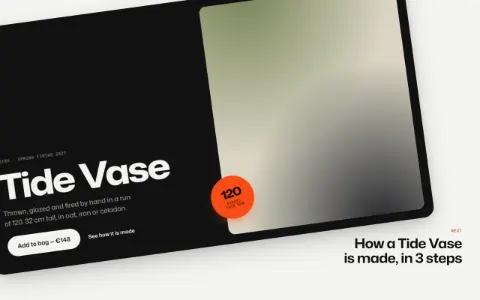
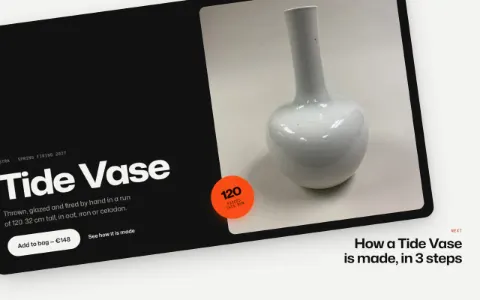
Checkpoint: scroll-effects batch in progress
Claude-Session: https://claude.ai/code/session_01FSExaLDapN7Ue3cgEwCTvE

Changed region(s): [[0.4375, 0.0, 0.9062, 0.78], [0.7188, 0.0, 0.8438, 0.15], [0.4062, 0.03, 0.4375, 0.09]]

diff --git a/components/title-tunnel/demo.css b/components/title-tunnel/demo.css
@@ -1,4 +1,54 @@
-/* Title tunnel. Tokens and primitives come from src/demo-kit/base.css; use var(--…) for every colour. */
-.tt {
-  min-height: 100svh;
+.tt { --pad-x: max(var(--gutter), calc((100% - 1320px) / 2)); overflow-x: clip; }
+.tt a { text-decoration: none; }
+.tt__bar nav a[aria-current] { color: var(--ink); }
+
+/* The lead: the page's heading. In the tunnel it sits above the doorway, which grows over it. */
+.tt__lead { display: grid; gap: clamp(10px, 1.8svh, 16px); }
+.tt__h1 { max-width: 18ch; font-size: clamp(1.9rem, 1rem + 2.4vw, 3.2rem); font-weight: 720; font-stretch: var(--wide); line-height: 1; letter-spacing: -0.03em; text-wrap: balance; }
+.tt__cue { display: inline-flex; align-items: center; gap: 10px; margin-top: 6px; }
+.tt__cue::before { content: ''; width: 1px; height: 32px; background: linear-gradient(var(--ink), transparent); }
+
+/* Cards, in both modes. */
+.tt__link { display: grid; gap: 8px; }
+.tt__media { --ratio: 4 / 3; border-radius: var(--radius-md); }
+.tt__name { font-size: var(--text-lg); font-weight: 650; letter-spacing: -0.01em; line-height: 1.2; }
+.tt__meta { color: var(--muted); }
+
+/* Flat: reduced motion and static (and before script). The heading and a plain grid of links. */
+.tt__tunnel[data-mode='flat'] { padding: clamp(40px, 8svh, 88px) var(--pad-x) clamp(56px, 10svh, 104px); }
+[data-mode='flat'] .tt__lead { margin-bottom: clamp(48px, 9svh, 96px); }
+[data-mode='flat'] .tt__cue { display: none; }
+[data-mode='flat'] .tt__title { margin-bottom: clamp(28px, 5svh, 48px); font-size: clamp(3rem, 1rem + 8vw, 9rem); font-weight: 760; font-stretch: var(--wide); line-height: 0.9; letter-spacing: -0.045em; }
+[data-mode='flat'] .tt__scene { display: grid; grid-template-columns: repeat(auto-fill, minmax(min(100%, 15rem), 1fr)); gap: 32px var(--gutter); margin: 0; }
+
+/* Deep: the section's height is the scroll the tunnel consumes; the stage is sticky, nothing is pinned. */
+.tt__tunnel[data-mode='deep'] { height: 500svh; }
+[data-mode='deep'] .tt__stage { position: sticky; top: 0; height: 100svh; display: grid; place-items: center; overflow: clip; container-type: size; }
+[data-mode='deep'] .tt__lead { position: absolute; top: clamp(16px, 4svh, 40px); left: var(--pad-x); right: var(--pad-x); }
+/* The doorway: overflow: clip (not hidden), so focusing a link cannot scroll the mask's content. */
+[data-mode='deep'] .tt__mask { position: relative; display: grid; place-items: center; width: min(56cqw, 52rem); height: clamp(6rem, 20cqh, 12rem); border-radius: 999px; overflow: clip; background: var(--ink); color: var(--bg); }
+[data-mode='deep'] .tt__title { position: relative; z-index: 1; font-size: clamp(3rem, 14cqh, 9.5rem); font-weight: 760; font-stretch: var(--wide); line-height: 1; letter-spacing: -0.045em; pointer-events: none; }
+/* Viewport-sized, centred on the doorway; demo.js counter-scales it so the scene stays at 1:1 while the mask grows. */
+[data-mode='deep'] .tt__inner { position: absolute; left: 50%; top: 50%; width: 100cqw; height: 100cqh; translate: -50% -50%; perspective: 900px; }
+[data-mode='deep'] .tt__scene { position: absolute; inset: 0; display: block; margin: 0; transform-style: preserve-3d; }
+[data-mode='deep'] .tt__scene li {
+  position: absolute;
+  left: 50%;
+  top: 50%;
+  width: clamp(9rem, 22cqw, 21rem);
+  transform: translate(-50%, -50%) translate3d(calc(var(--x) * 24cqw), calc(var(--y) * 30cqh), calc(var(--i) * var(--gap, 700px) * -1));
+}
+[data-mode='deep'] .tt__name { color: var(--bg); }
+[data-mode='deep'] .tt__meta { color: color-mix(in oklab, var(--bg) 62%, var(--ink)); }
+[data-mode='deep'] .tt__link:focus-visible { outline-color: var(--bg); }
+
+.tt__outro { display: grid; justify-items: start; gap: 26px; padding-block: clamp(72px, 14svh, 140px); border-top: 1px solid var(--line); }
+.tt__outro .ac-h2 { max-width: 26ch; }
+
+@media (max-width: 640px) {
+  .tt__bar nav { display: none; }
+  [data-mode='deep'] .tt__mask { width: 80cqw; height: 14cqh; }
+  [data-mode='deep'] .tt__title { font-size: clamp(2.5rem, 9cqh, 5rem); }
+  [data-mode='deep'] .tt__scene li { width: 46cqw; transform: translate(-50%, -50%) translate3d(calc(var(--x) * 20cqw), calc(var(--y) * 30cqh), calc(var(--i) * var(--gap, 700px) * -1)); }
+  .tt__name { font-size: var(--text-md); }
 }

diff --git a/components/title-tunnel/demo.js b/components/title-tunnel/demo.js
@@ -34,14 +34,13 @@ export default function mount(root, options, ctx) {
       <a class="ac-brand" href="#top">${studio.name}</a>
       <nav aria-label="Studio">${studio.nav.map((n, i) => html`<a href="#top" ${i === 0 ? raw('aria-current="page"') : ''}>${n}</a>`)}</nav>
     </header>
-    <section class="tt__intro ac-wrap" aria-labelledby="tt-title">
-      <p class="ac-label">${studio.full} · ${studio.city}</p>
-      <h1 class="ac-h1" id="tt-title">${studio.tagline}</h1>
-      <p class="tt__cue ac-label" aria-hidden="true">Scroll into the work</p>
-    </section>
-
     <section class="tt__tunnel" data-tunnel data-mode="flat" aria-labelledby="tt-work">
       <div class="tt__stage" data-stage>
+        <div class="tt__lead" data-lead>
+          <p class="ac-label">${studio.full} · ${studio.city}</p>
+          <h1 class="tt__h1" id="tt-title">${studio.tagline}</h1>
+          <p class="tt__cue ac-label" aria-hidden="true">Scroll into the work</p>
+        </div>
         <div class="tt__mask" data-mask>
           <h2 class="tt__title" id="tt-work" data-title>Work</h2>
           <div class="tt__inner" data-inner>
@@ -72,15 +71,17 @@ export default function mount(root, options, ctx) {
   const inner = root.querySelector('[data-inner]');
   const scene = root.querySelector('[data-scene]');
   const title = root.querySelector('[data-title]');
+  const lead = root.querySelector('[data-lead]');
   const items = [...scene.children];
 
-  const lenis = useLenis(ctx);
   if (ctx.motion !== 'full') {
     return { update(next, changed) { cfg = { ...next }; return changed.includes('count') ? false : undefined; } };
   }
 
-  const { gsap, ScrollTrigger, context } = useGsap(ctx, root);
+  // Deep mode first: the section grows to 500 svh, and Lenis should measure the page at its real height.
   section.dataset.mode = 'deep';
+  const lenis = useLenis(ctx);
+  const { gsap, ScrollTrigger, context } = useGsap(ctx, root);
   // Smallest scale at which the capsule's straight part covers the stage: (W − H)·s ≥ stage width, H·s ≥ stage
   // height. offsetWidth/Height ignore transforms, so this is safe at any point of the scrub.
   const coverScale = () => 1.02 * Math.max(stage.clientWidth / Math.max(1, mask.offsetWidth - mask.offsetHeight), stage.clientHeight / mask.offsetHeight);
@@ -88,7 +89,7 @@ export default function mount(root, options, ctx) {
   let tl = null;
   const build = () => {
     if (tl) { tl.scrollTrigger?.kill(); tl.kill(); }
-    gsap.set([mask, inner, scene, title], { clearProps: 'transform,opacity' });
+    gsap.set([mask, inner, scene, title, lead], { clearProps: 'transform,opacity' });
     scene.style.setProperty('--gap', `${cfg.gap}px`);
     const depth = count * cfg.gap; // the flight ends with the last project at z 0
     let cover = coverScale();
@@ -111,6 +112,7 @@ export default function mount(root, options, ctx) {
         },
       });
       tl.to(zoom, { k: 1, duration: ZOOM, onUpdate: applyZoom }, 0)
+        .to(lead, { opacity: 0, duration: 0.12 }, 0.02)
         .to(title, { opacity: 0, duration: 0.5 }, 0.35)
         .fromTo(scene, { z: 0 }, { z: depth, duration: TRAVEL }, TRAVEL_AT);
       tl.depth = depth;

diff --git a/components/css-scroll-timeline/demo.js b/components/css-scroll-timeline/demo.js
@@ -5,7 +5,7 @@
 // scroll listener for the bar and an IntersectionObserver that clears marks on blocks still below the fold.
 import './demo.css';
 import '../../src/demo-kit/serif.css';
-import { on, html, raw, clamp, photos, imageHTML, content, observeIntersection } from '../../src/demo-kit/index.js';
+import { on, html, raw, clamp, photo, photos, imageHTML, content, observeIntersection } from '../../src/demo-kit/index.js';
 
 const MORE = {
   kilns: 'Each boiling house has one pan, three metres across, set over a brick firebox. Brine from the shallow wells is ladled in at dawn and boiled down by dusk.',
@@ -25,12 +25,15 @@ function ledgerPath() {
   return `M${pts.join(' L')}`;
 }
 
+// A named picture when the shared set has it, else a pick by tag (the set may change; a demo never depends on one file).
+const pick = (id, tags, seed) => { const p = photo(id); return p.drawn ? photos({ tags, count: 1, seed })[0] : p; };
+
 export default function mount(root, options, ctx) {
   const { magazine, people } = content;
   const article = magazine.articles.find((a) => a.slug === 'salt-and-time');
   const p = magazine.longRead;
-  const [heroShot] = photos({ tags: ['landscape'], count: 1, seed: 'cst-hero' });
-  const [ledgerShot] = photos({ tags: ['water'], count: 1, seed: 'cst-ledger' });
+  const heroShot = pick('land-dunes', ['landscape'], 'cst-hero');
+  const ledgerShot = pick('land-overcast-sea', ['water'], 'cst-ledger');
   let cfg = { ...options };
 
   const supported = { scroll: CSS.supports('animation-timeline: scroll()'), view: CSS.supports('animation-timeline: view()') };
@@ -55,7 +58,7 @@ export default function mount(root, options, ctx) {
           <p class="cst__byline">Words by <strong>${article.author}</strong> · Photographs by <strong>${people[3].name}</strong></p>
         </div>
         <figure class="cst__hero-fig">
-          <span class="ac-media">${raw(imageHTML(heroShot, { sizes: '(max-width: 760px) 92vw, 44vw', eager: true, alt: 'The salt flats at low water, late in the afternoon' }))}</span>
+          <span class="ac-media">${raw(imageHTML(heroShot, { sizes: '(max-width: 760px) 92vw, 44vw', eager: true, alt: 'Pale dunes above the boiling houses, late in the afternoon' }))}</span>
           <figcaption class="ac-small">Læsø in August. The boiling houses sit on the dune line, upwind of the village.</figcaption>
         </figure>
       </section>
@@ -75,7 +78,7 @@ export default function mount(root, options, ctx) {
           <h2 class="cst__h2" id="cst-c3">The ledger</h2>
           <figure class="cst__fig">
             <div class="cst__frame" data-frame>
-              <span class="cst__photo ac-media">${raw(imageHTML(ledgerShot, { sizes: '(max-width: 760px) 92vw, 72rem', alt: 'Brine pans on the shore below the archive' }))}</span>
+              <span class="cst__photo ac-media">${raw(imageHTML(ledgerShot, { sizes: '(max-width: 760px) 92vw, 72rem', alt: 'Surf around a low rocky islet off the salt coast' }))}</span>
               <div class="cst__chart" aria-hidden="true">
                 <span class="ac-label">Salt boiled each summer, in tonnes</span>
                 <div class="cst__plot">

diff --git a/components/sticky-stages/demo.js b/components/sticky-stages/demo.js
@@ -3,16 +3,19 @@
 // (x −10 %, −15°) while the seal on it turns harder and starts a beat later; across the second rail each step card
 // rises, holds and settles in turn. Reduced motion: the rails collapse to their content and nothing moves.
 import './demo.css';
-import { on, html, raw, clamp, photos, imageHTML, content, formatPrice } from '../../src/demo-kit/index.js';
+import { on, html, raw, clamp, photo, photos, imageHTML, content, formatPrice } from '../../src/demo-kit/index.js';
 import { useGsap } from '../../src/demo-kit/gsap.js';
 import { useLenis } from '../../src/demo-kit/lenis.js';
 
 const STEPS = [
-  { k: 'Thrown', t: 'On the wheel', b: 'Each vase starts as 2.2 kg of stoneware, thrown in one pull and left to stiffen overnight.', tags: ['ceramic'] },
-  { k: 'Glazed', t: 'Dipped twice', b: 'An oat glaze mixed in the workshop; the foot is wiped back so the bare clay shows.', tags: ['texture'] },
-  { k: 'Fired', t: '1,280 °C', b: 'Fourteen hours in a reduction kiln. The flame decides the last tenth of the colour.', tags: ['warm'] },
-  { k: 'Packed', t: 'Paper, not foam', b: 'Wrapped in moulded pulp and sent within three days, with the potter’s initials on the base.', tags: ['interior'] },
+  { k: 'Thrown', t: 'On the wheel', b: 'Each vase starts as 2.2 kg of stoneware, thrown in one pull and left to stiffen overnight.', id: 'obj-jian-tea-bowl', tags: ['ceramic'] },
+  { k: 'Glazed', t: 'Dipped twice', b: 'An oat glaze mixed in the workshop; the foot is wiped back so the bare clay shows.', id: 'obj-grueby-vase', tags: ['ceramic', 'cool'] },
+  { k: 'Fired', t: '1,280 °C', b: 'Fourteen hours in a reduction kiln. The flame decides the last tenth of the colour.', id: 'obj-roman-oil-lamp', tags: ['ceramic', 'warm'] },
+  { k: 'Packed', t: 'Paper, not foam', b: 'Wrapped in moulded pulp and sent within three days, with the potter’s initials on the base.', id: 'tex-paper-sheets', tags: ['texture'] },
 ];
+
+// A named picture when the shared set has it, else a pick by tag (the set may change; a demo never depends on one file).
+const pick = (id, tags, seed) => { const p = photo(id); return p.drawn ? photos({ tags, count: 1, seed })[0] : p; };
 
 export default function mount(root, options, ctx) {
   const { shop } = content;
@@ -20,8 +23,8 @@ export default function mount(root, options, ctx) {
   let cfg = { ...options };
   const count = clamp(Math.round(cfg.stages), 2, STEPS.length);
   const steps = STEPS.slice(0, count);
-  const [hero] = photos({ tags: ['ceramic'], count: 1, seed: 'ss-hero' });
-  const shots = steps.map((s, i) => photos({ tags: s.tags, count: 1, seed: `ss-step-${i}` })[0]);
+  const hero = pick('obj-celadon-vase', ['ceramic'], 'ss-hero');
+  const shots = steps.map((s, i) => pick(s.id, s.tags, `ss-step-${i}`));
 
   root.className = 'ss';
   root.innerHTML = html`

diff --git a/components/docked-media/demo.js b/components/docked-media/demo.js
@@ -4,7 +4,7 @@
 // 85 % to top top grows it to scale 1; at that end the fixed box and the section box coincide and onLeave hands the
 // reel back to the flow. Transform only; the radius is counter-scaled. Phones and reduced motion: no dock.
 import './demo.css';
-import { on, html, raw, photos, videos, imageHTML, whileVisible, content } from '../../src/demo-kit/index.js';
+import { on, html, raw, photo, photos, videos, imageHTML, whileVisible, content } from '../../src/demo-kit/index.js';
 import { useGsap } from '../../src/demo-kit/gsap.js';
 import { useLenis } from '../../src/demo-kit/lenis.js';
 
@@ -15,8 +15,10 @@ export default function mount(root, options, ctx) {
   const { studio } = content;
   const work = studio.projects.filter((p) => ['fjordhus', 'kiln-house', 'saltworks'].includes(p.slug));
   const shots = photos({ tags: ['architecture'], count: 3, seed: 'dm-work' });
-  const [still] = photos({ tags: ['landscape'], count: 1, seed: 'dm-film' });
-  const clip = videos.find((v) => v.tags?.some((t) => ['architecture', 'landscape', 'nature', 'water'].includes(t))) || videos[0];
+  // The film: a clip from the shared set when one shows a building or water, else a still that drifts slowly.
+  const named = photo('land-lake-reflection');
+  const still = named.drawn ? photos({ tags: ['landscape'], count: 1, seed: 'dm-film' })[0] : named;
+  const clip = videos.find((v) => v.tags?.some((t) => ['architecture', 'interior', 'water'].includes(t)));
   let cfg = { ...options };
 
   root.className = 'dm';

diff --git a/components/docked-media/demo.css b/components/docked-media/demo.css
@@ -69,7 +69,7 @@
 .dm__media img { animation: dm-drift 26s var(--ease-in-out) infinite alternate paused; transform-origin: 40% 60%; }
 .dm--playing .dm__media img { animation-play-state: running; }
 @keyframes dm-drift { from { transform: scale(1.04); } to { transform: scale(1.14) translate(-2%, -1.5%); } }
-.dm__reel::after { content: ''; position: absolute; inset: -2px; background: linear-gradient(to top, color-mix(in oklab, var(--night) 80%, transparent), color-mix(in oklab, var(--night) 20%, transparent) 45%, transparent 70%); pointer-events: none; }
+.dm__reel::after { content: ''; position: absolute; inset: -2px; background: linear-gradient(to top, color-mix(in oklab, var(--night) 88%, transparent), color-mix(in oklab, var(--night) 55%, transparent) 32%, color-mix(in oklab, var(--night) 12%, transparent) 58%, transparent 76%); pointer-events: none; }
 
 .dm__over { position: absolute; inset: auto 0 0; z-index: 1; display: grid; gap: clamp(10px, 2svh, 18px); padding: clamp(20px, 4vw, 56px); }
 .dm__over .ac-label { color: color-mix(in oklab, var(--dm-on) 72%, transparent); }

diff --git a/components/clip-door/demo.css b/components/clip-door/demo.css
@@ -21,7 +21,7 @@
   content: '';
   position: absolute;
   inset: 0;
-  background: linear-gradient(to top, color-mix(in oklab, var(--night) 84%, transparent) 0%, color-mix(in oklab, var(--night) 34%, transparent) 42%, transparent 70%);
+  background: linear-gradient(to top, color-mix(in oklab, var(--night) 90%, transparent) 0%, color-mix(in oklab, var(--night) 62%, transparent) 30%, color-mix(in oklab, var(--night) 18%, transparent) 56%, transparent 76%);
 }
 .cd__room-copy { position: absolute; inset: auto 0 0; z-index: 1; display: grid; gap: clamp(12px, 2svh, 20px); padding: 0 var(--pad-x) clamp(24px, 6svh, 56px); }
 .cd__room-copy .ac-label { color: color-mix(in oklab, var(--cd-on) 74%, transparent); }

diff --git a/components/title-tunnel/meta.js b/components/title-tunnel/meta.js
@@ -8,7 +8,7 @@ export default {
   tags: ['scroll', 'css-3d', 'mask', 'tunnel', 'perspective', 'scrub', 'sticky', 'scrolltrigger', 'gsap', 'lenis'],
   added: '2026-10-28',
   order: 110,
-  preview: { height: 680, scroll: true, hint: 'Scroll into the title, or Tab to a project', capture: { scroll: 0.3, wait: 1400 } },
+  preview: { height: 680, scroll: true, hint: 'Scroll into the title, or Tab to a project', capture: { scroll: 0.11, wait: 1400 } },
   useCases: [
     'The way into a portfolio’s work section from its home page',
     'A festival line-up or a collection walked through rather than scrolled past',

diff --git a/components/sticky-stack/meta.js b/components/sticky-stack/meta.js
@@ -8,7 +8,7 @@ export default {
   tags: ['scroll', 'sticky', 'stack', 'cards', 'scale', 'scrub', 'scrolltrigger', 'gsap', 'lenis'],
   added: '2026-10-28',
   order: 100,
-  preview: { height: 660, scroll: true, hint: 'Scroll to stack the cards', capture: { scroll: 0.36, wait: 1200 } },
+  preview: { height: 660, scroll: true, hint: 'Scroll to stack the cards', capture: { scroll: 0.44, wait: 1200 } },
   useCases: [
     'Services, disciplines or plans that deserve a full card each without a long list',
     'A process in four steps where the finished ones stay visible behind the current one',

diff --git a/components/css-scroll-timeline/meta.js b/components/css-scroll-timeline/meta.js
@@ -9,7 +9,7 @@ export default {
   requires: ['scroll-timeline'],
   added: '2026-10-28',
   order: 40,
-  preview: { height: 680, scroll: true, hint: 'Scroll the article', capture: { scroll: 0.5, wait: 900 } },
+  preview: { height: 680, scroll: true, hint: 'Scroll the article', capture: { scroll: 0.555, wait: 900 } },
   useCases: [
     'A long-read article: reading progress, paragraphs that settle in, a figure that opens',
     'A marketing page that wants scroll motion without shipping a scroll library',

diff --git a/components/horizontal-rail/demo.js b/components/horizontal-rail/demo.js
@@ -149,6 +149,7 @@ export default function mount(root, options, ctx) {
       },
     }));
     readout(tween.scrollTrigger.progress);
+    lenis?.resize(); // the rail's height just changed; Lenis' own resize is debounced
   };
   build();
 
